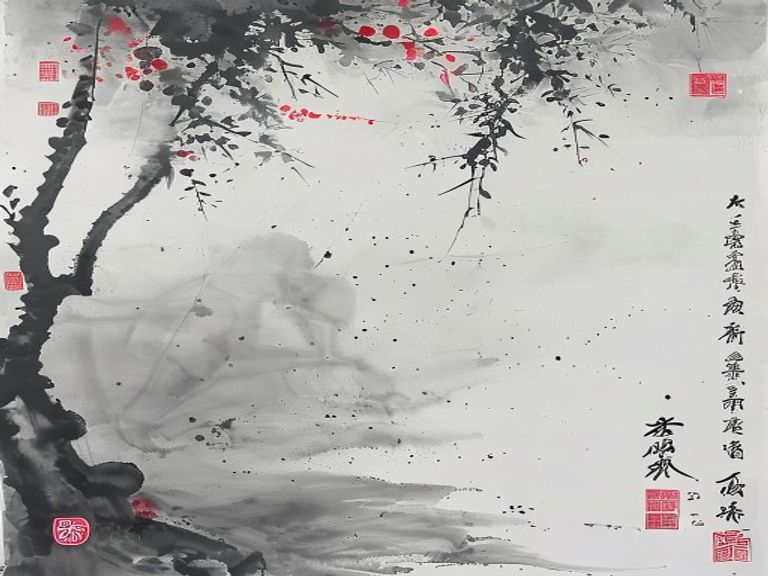
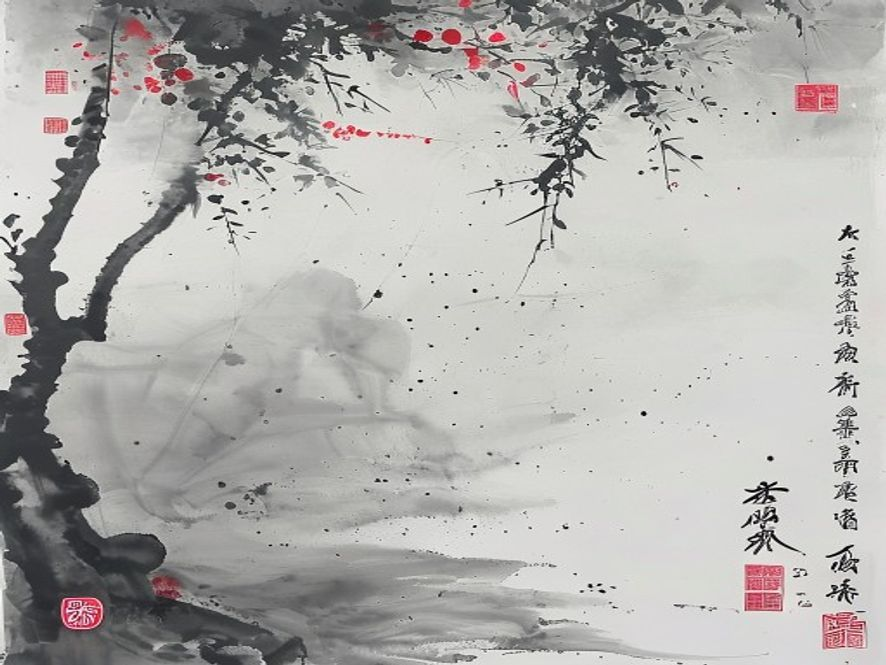
feat: 重新设计“溯光”知识长廊详情页

diff --git a/src/lib/share-card.ts b/src/lib/share-card.ts
@@ -80,12 +80,16 @@ export async function renderShareCard(data: ShareCardData): Promise<string> {
   if (data.author) {
     cursorY += 20;
     drawAuthor(ctx, data.author, cursorY);
+    cursorY += 30;
   }
 
   // 8.5 标签气泡
   if (data.tags && data.tags.length > 0) {
-    cursorY += 30;
-    drawTags(ctx, data.tags, cursorY);
+    // 防止 tags 越过 footer (H - 260)
+    if (cursorY < H - 300) {
+      drawTags(ctx, data.tags, cursorY);
+      cursorY += 50;
+    }
   }
 
   // 9. 底部印章 + 溯光签名 + URL + 二维码
@@ -130,16 +134,17 @@ async function drawCoverBackground(ctx: CanvasRenderingContext2D, url: string) {
     const img = new Image();
     img.crossOrigin = "anonymous";
     await new Promise<void>((resolve, reject) => {
-      img.onload = () => resolve();
-      img.onerror = () => reject(new Error("封面加载失败"));
+      const t = setTimeout(() => reject(new Error("封面超时")), 5000);
+      img.onload = () => { clearTimeout(t); resolve(); };
+      img.onerror = () => { clearTimeout(t); reject(new Error("封面加载失败")); };
       img.src = url;
     });
-    // 70% 透明度铺满顶部
+    // 30% 透明度铺满顶部 35% 区域 (不遮挡分类徽章)
     ctx.save();
-    ctx.globalAlpha = 0.25;
+    ctx.globalAlpha = 0.22;
     // 居中裁剪铺满
     const ratio = img.width / img.height;
-    const targetRatio = W / (H * 0.55);
+    const targetRatio = W / (H * 0.35);
     let sw, sh, sx, sy;
     if (ratio > targetRatio) {
       sh = img.height;
@@ -152,16 +157,25 @@ async function drawCoverBackground(ctx: CanvasRenderingContext2D, url: string) {
       sx = 0;
       sy = (img.height - sh) / 2;
     }
-    ctx.drawImage(img, sx, sy, sw, sh, 0, 0, W, H * 0.55);
-    // 渐变蒙板淡入宣纸
-    const grad = ctx.createLinearGradient(0, H * 0.3, 0, H * 0.6);
+    ctx.drawImage(img, sx, sy, sw, sh, 0, 0, W, H * 0.35);
+    // 渐变蒙板淡入宣纸 (H*0.18 → H*0.42, 完全不透明)
+    const grad = ctx.createLinearGradient(0, H * 0.18, 0, H * 0.42);
     grad.addColorStop(0, "rgba(245, 240, 226, 0)");
     grad.addColorStop(1, "rgba(245, 240, 226, 1)");
     ctx.fillStyle = grad;
-    ctx.fillRect(0, H * 0.3, W, H * 0.3);
+    ctx.fillRect(0, H * 0.18, W, H * 0.24);
     ctx.restore();
-  } catch {
-    // 静默失败, 不影响整体绘制
+  } catch (e) {
+    console.warn("[share-card] cover bg failed, fallback to paper:", e);
+    // 失败时画一层淡墨晕, 不影响整体
+    ctx.save();
+    ctx.globalAlpha = 0.08;
+    const grad = ctx.createRadialGradient(W / 2, H * 0.2, 50, W / 2, H * 0.2, W * 0.6);
+    grad.addColorStop(0, COLORS.ink);
+    grad.addColorStop(1, "rgba(60, 44, 30, 0)");
+    ctx.fillStyle = grad;
+    ctx.fillRect(0, 0, W, H * 0.4);
+    ctx.restore();
   }
 }
 

diff --git a/src/components/article/hero-block.tsx b/src/components/article/hero-block.tsx
@@ -130,7 +130,7 @@ export function HeroBlock({
 
           {/* 元信息行 */}
           <div className="mt-5 flex flex-wrap items-center gap-x-5 gap-y-2 text-xs text-muted-foreground">
-            {author && (
+            {author && !/溯光|编辑部|蜀光|水墨编辑部/.test(author) && (
               <span className="flex items-center gap-1">
                 <span className="font-serif text-[10px] tracking-widest text-muted-foreground/60">著</span>
                 <b className="font-serif text-foreground/80">{author}</b>